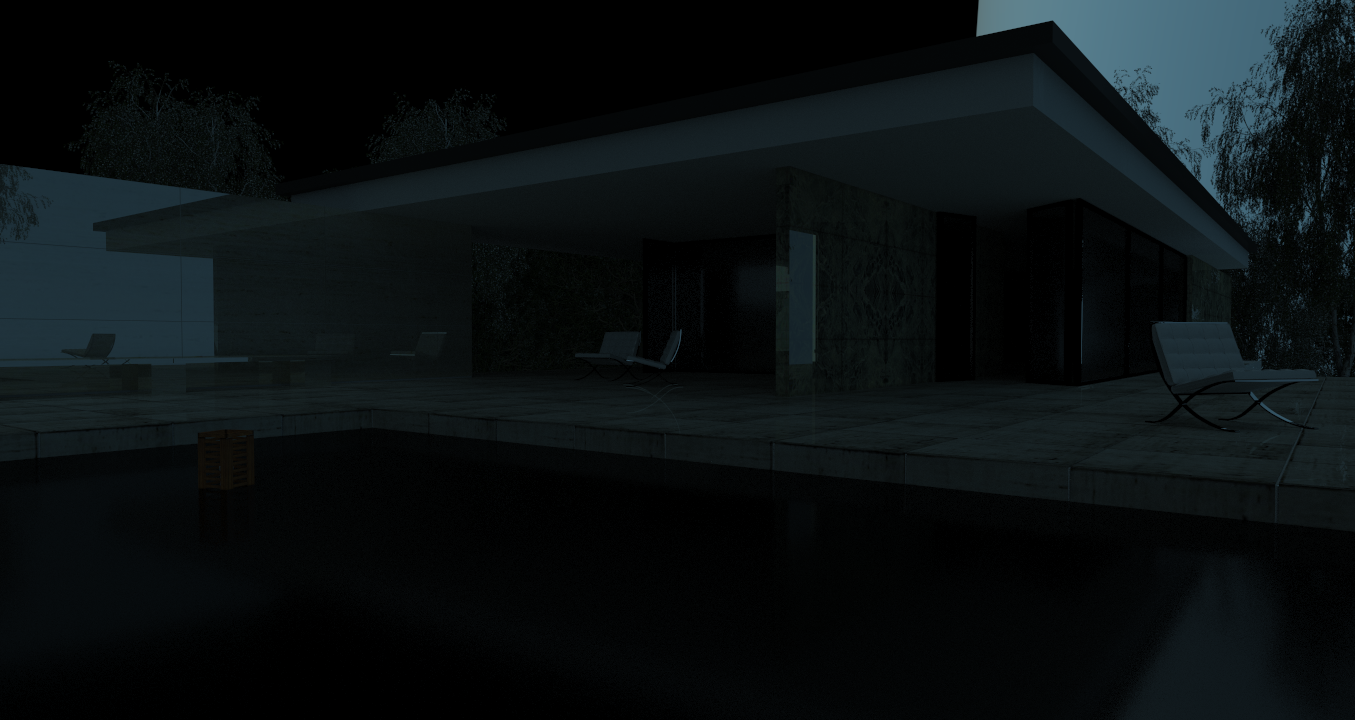
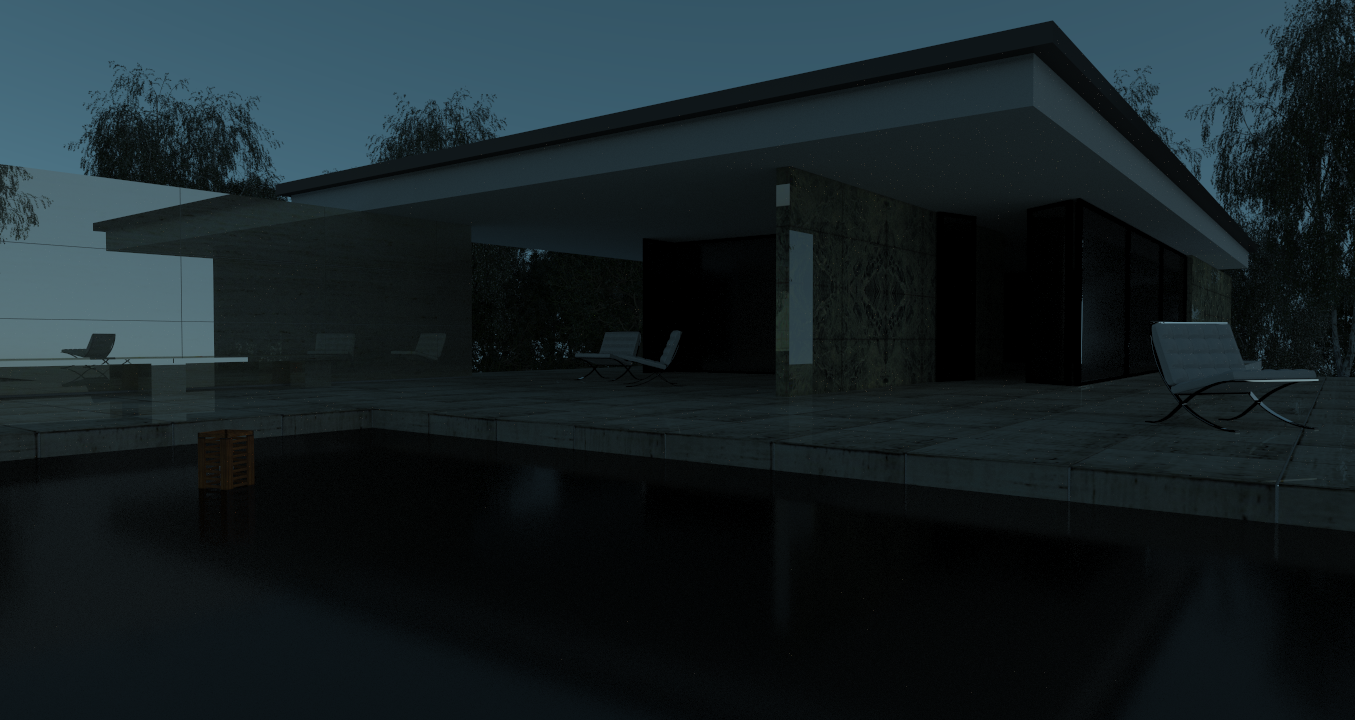
Environment map fixed.

diff --git a/src/PBRTParser.cpp b/src/PBRTParser.cpp
@@ -1160,7 +1160,13 @@ void PBRTParser::parse_InfiniteLight() {
 	ygl::environment *env = new ygl::environment;
 	env->name = get_unique_id(CounterID::environment);
 	env->ke = scale * L;
-	auto fm = ygl::mat_to_frame(gState.CTM);
+	
+	const ygl::vec3f x_axis = {1, 0, 0};
+	const ygl::vec3f y_axis = {0, 1, 0};
+	auto rm = ygl::frame_to_mat(ygl::rotation_frame(x_axis, 90 * ygl::pif / 180));
+	rm *= ygl::frame_to_mat(ygl::rotation_frame(y_axis, 180 * ygl::pif / 180));
+	auto fm = ygl::mat_to_frame(gState.CTM * rm);
+	fm.z = -fm.z;
 	env->frame = fm; 
 	if (mapname.length() > 0) {
 		ygl::texture *txt = new ygl::texture;

diff --git a/src/PBRTParser.h b/src/PBRTParser.h
@@ -243,6 +243,7 @@ class PBRTParser {
         std::stringstream ss;
         ss << "Syntax Error (" << this->current_file() << ":" << this->lexers.at(0)->get_line() <<\
 			"," << this->lexers.at(0)->get_column() << "): " << msg;
+		std::cout << ss.str() << "\n";
         throw  PBRTException(ss.str());
     };
 

diff --git a/src/main.cpp b/src/main.cpp
@@ -25,7 +25,7 @@ int main(int argc, char** argv){
 		so.skip_missing = false;
 		ygl::save_scene(argv[2], scn, so);
 	}
-	catch (std::exception ex) {
+	catch (PBRTException ex) {
 		std::cout << ex.what() << "\n";
 	}
 	

diff --git a/README.md b/README.md
@@ -2,7 +2,7 @@
 
 A parser written to convert pbrt scenes to yocto scenes (obj).
 
-<img src="images/landscape_view_0.png"/>
+<img src="images/ecosys.png"/>
 
 ## How to use
 Once compiled using cmake, run
@@ -13,12 +13,11 @@ parse <file_to_parse> <output_obj>
 ## TODO
 In order of importance
 
-- Environment maps don't work.
-- File paths (also textures file saving): better handling.
 - Mix material: texture blending might have some transparency problem (check landscape(view-0 as an example).
 - Shapes can override current material's properties. Implement this.
 - Checkerboard texture produce different colors.
 - [pavilion-night] check the transparency issue of the left part of image, check why lights are much stronger than pbrt rendering.
+- File paths (also textures file saving): better handling.
 - Testures: implement mix textures.
 - Test illumination, implement some hack for distant light.
 - Fix memory leaks using shared pointers.
